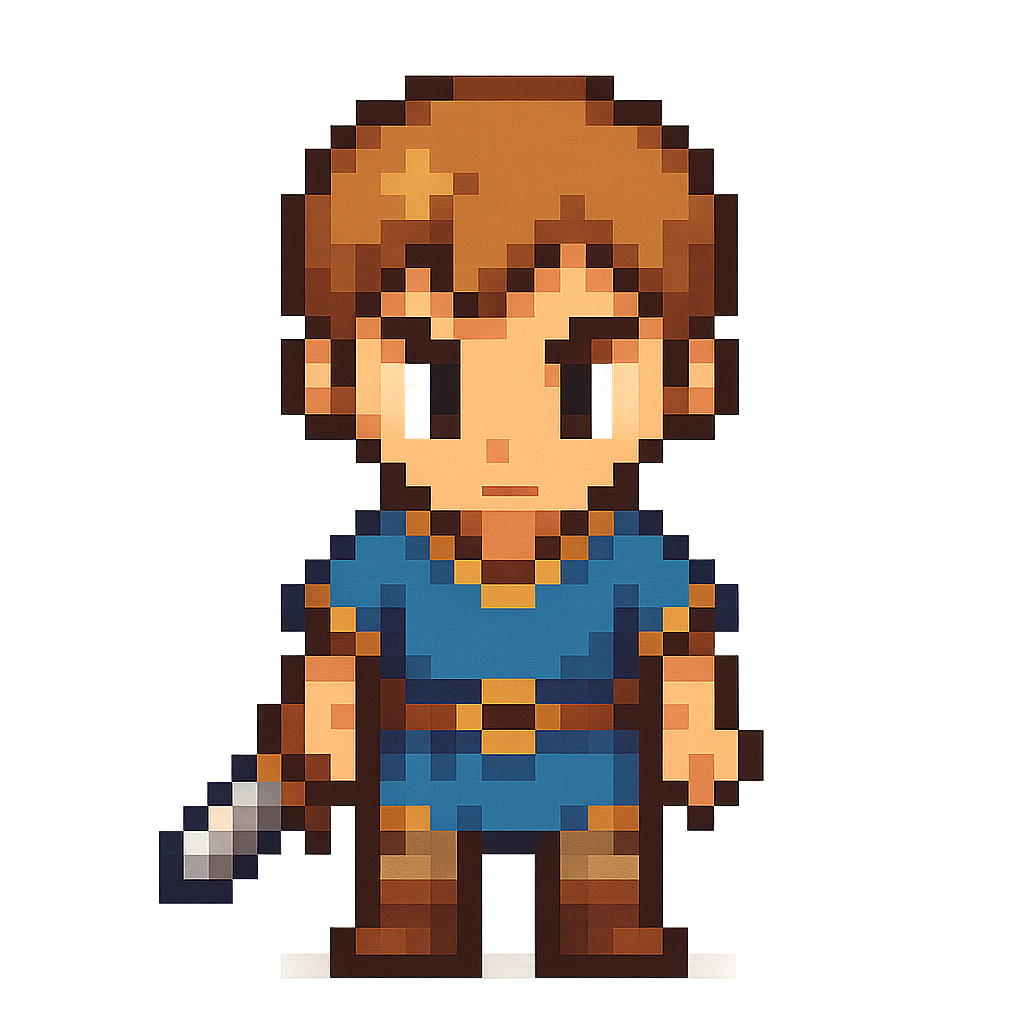
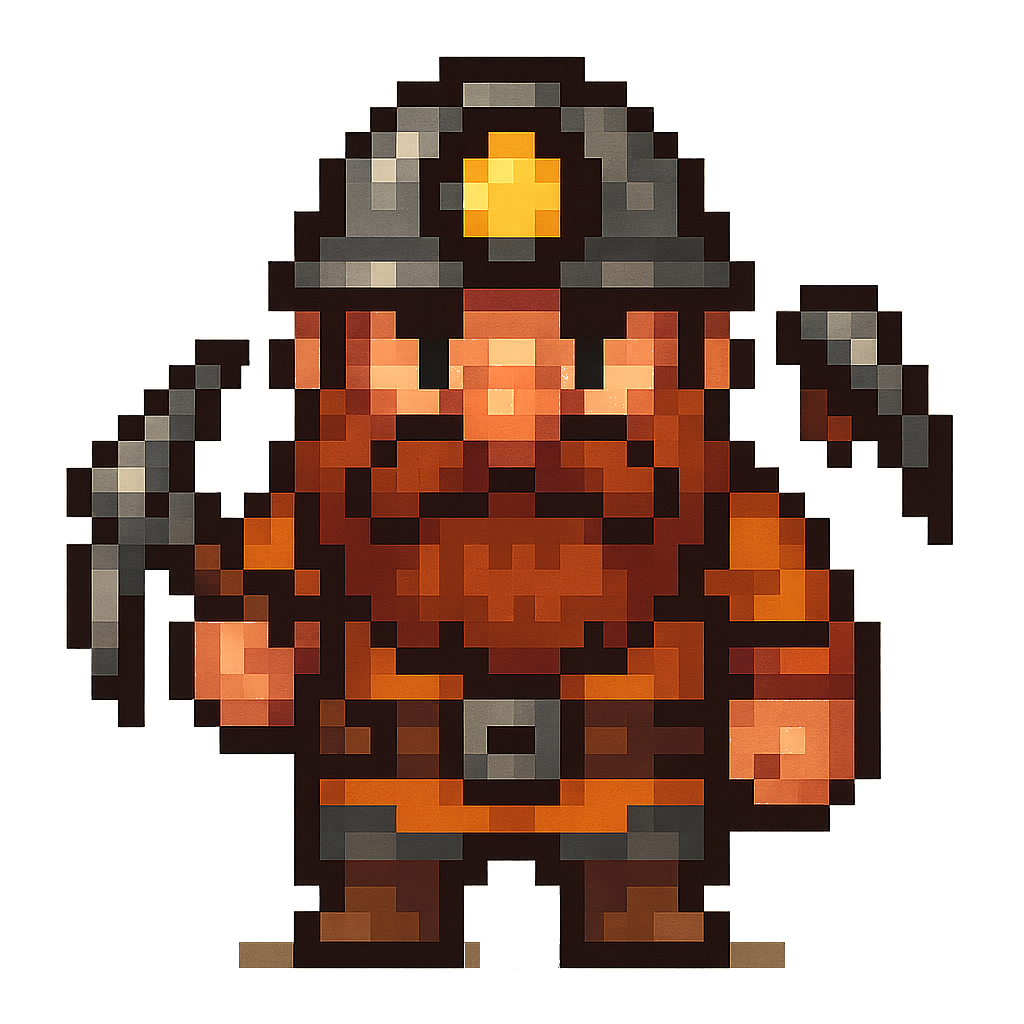
ドワーフ主人公画像＋坑道世界の仕様書更新

diff --git a/plan/game/worldbase.md b/plan/game/worldbase.md
@@ -1,48 +1,31 @@
-# ワールド／マップ方針（2026-10-03 テキスト方式に決定）
+# ワールド／マップ方針（2026-10-06 坑道版に全面切替え）
 
-## なぜテキストか
-- 前回 `origin/working` で詰まった原因はTiled操作自体でなく、tileset画像未用意＋パス不一致＋タイルセット名不一致の3点セット
-- テキストならAIが生成・修正しやすく、git差分が読め、seed生成と相性が良い
-- Tiledへの移行は将来可能。描画部分を抽象化しておく
+## なぜ坑道か
+- 地上DQ世界ではテリトリー境界が見えず、開始位置と城の関係も迷子の元だった
+- 坑道なら階層そのものが区切りになる。安全なキャンプ／上層／下層で迷わない
+- 主人公ドワーフ＋採取が主目的に昇格し、世界と遊びが一致する
+- 旧地上世界（30x30・城・村・魔王）は捨てた。git履歴（5d6cb080以前）に残る
 
-## タイル凡例（仮）
-- `#`: 山（通行不可）
-- `.`: 草原（歩行可・エンカウント低）
-- `T`: 森（歩行可・エンカウント中）
-- `~`: 水（通行不可、初期は装飾）
-- `+`: 橋（歩行可・エンカウント中。渡った先が強いゲート演出あり）
-- `:`: 砂浜（歩行可・エンカウント中）
-- `C`: 城（始まりの町、王様イベント）
-- `V`: 村・町（宿屋・会話）
-- `D`: 洞窟・ダンジョン入口
-- `S`: 開始位置（中央。四方へ広がる探索起点、隣に案内人）
+## タイル凡例
+- `#`: 岩壁（通行不可）
+- `.`: 床（キャンプは安全＝遭遇なし、坑道は遭遇あり）
+- `T`: 木（キャンプ装飾）
+- `C`: 親方小屋（Eキーで親方に会える）
+- `V`: 施設（長屋・道具屋・救護所・鍛冶場）
+- `D`: 坑口（親方の許可で入坑）
+- `S`: 開始位置（キャンプ中央）・坑道では出入口
+- `G`: 階段（上下層を行き来）
+- `O`: 銅鉱脈（通行不可、隣接Eキーで採取）
+- `K`: 鍵扉（納品の鍵でのみ通過）
+- `H`: 宝箱（上層の bonus、1回限り）
+- `B`: ボス床（坑底のぬし固定出現、逃走不可。撃破でのみクリア）
 
-## エリア分割（2026-10-05 DQ1式を適用）
-- 本家DQ1は8x8=64テリトリー（各15x15）＋テリトリー毎に5種の遭遇表。地形別遭遇率は砂地・山>森・橋・毒沼>草原
-- 本作30x30は3x3=9テリトリー（各10x10）に簡略化（src/data/regions.js）
-- 西=安全、北東（洞窟）=危険の勾配。橋を渡ると警告文＋強い敵テーブルに切り替わる
+## 進行順
+- キャンプ開始→親方に会う（依頼）→坑口→上層で銅掘り→銅3個納品→鍵→階段→下層→鍵扉→ボス
+- 戦闘後は元の位置に復帰する。鉱脈の枯渇は入坑（キャンプ→坑口）でリセットされる
+- セーブは救護所。坑道内からも再開できる
 
-## マップ生成ルール（AI生成時）
-- サイズは試作20x15から。外周は `#` で囲む
-- 必須配置：開始位置S、城C×1、洞窟D×1以上
-- 到達可能性をBFSで検証（S→C→Dが歩行可能タイルで繋がること）
-- 設定資料は旧 `data/world_base.json`（光の大陸・四神・魔王城・始まりの町・試練の洞窟）を流用する
-- 生成器は旧 `WorldGenerator.ts` のseed発想を簡略化して使う（座標決め＋敵・アイテム配置のみ）
-
-## 当面の運用
-- 手書きテキスト1枚＋AIバリエーションで試す
-- 描画はPhaser Graphicsの色タイル仮置き、tileset画像は後回し
-
-## 洞窟マップ凡例（試練の洞窟 15x15、dialogues.json内）
-- `#`: 壁（通行不可）
-- `.`: 床
-- `S`: 入口（フィールドに戻る）
-- `H`: 宝箱（1回限り：50G＋やくそう2＋ちいさなかぎ＋固定特性「かたい皮」。クリアにはならない）
-- `B`: ボス床（まおうのてさき固定出現、逃走不可。撃破でのみクリア）
-- `K`: 鍵扉（かぎ所持でのみ通過。宝箱→扉→ボスの順を強制）
-- NPC配置ルール：通行可能タイル（.）の上に置き、NPC自体は障害物扱い
-
-## 敵画像パイプライン（2026-10-04）
-- `public/assets/enemies/<id>.png`（id: slime, bat, goblin, ghost, golem, demon）に透過PNGを置くと戦闘画面で自動使用
+## 敵画像パイプライン（2026-10-04、継続）
+- `public/assets/enemies/<id>.png`（id: slime, bat, goblin, wolf, ghost, skeleton, golem, orc, mage, dragon, demon）に透過PNGを置くと戦闘画面で自動使用
+- `public/assets/hero.png`（主人公。2026-10-06 ドワーフ坑夫に再生）
 - ファイルがなければ手描きシェイプにフォールバック（素材なしでも動作）
-- 生成候補：fal.ai `image2pixel`（transparent_background指定でドット絵＋透過化）

diff --git a/plan/playsystem.md b/plan/playsystem.md
@@ -18,22 +18,26 @@
 - ボス：まおうのてさき（洞窟・宝箱取得後に出現、逃走不可）。撃破でプロトタイプクリア
 
 ## ゲーム進行
-- 世界地図での探索（テキストマップ方式、詳細は plan/game/worldbase.md）
-- 町や洞窟、ダンジョンの探索
-- 明確な目的（魔王を倒す）
-- 段階的に広がる冒険の規模
-- 最初の一歩：歩く→エンカウント→戦う→特性3択→王様フラグまでの一本ループ
+- 坑道キャンプ（安全地帯）と2層坑道の往復探索（テキストマップ方式、詳細は plan/game/worldbase.md）
+- キャンプ施設（長屋・道具屋・武器屋・救護所・鍛冶場）と坑道の探索
+- 明確な目的（坑底のぬしを倒す）
+- 段階的に広がる冒険の規模：上層→納品→下層→ボス
+- 基本ループ：掘る→売る→強くなる→納める→鍵→下層→ボス
 
 ## ストーリー要素
 - シンプルながら魅力的なストーリー展開
-- 勇者と魔王という明確な対立構造
-- NPCとの会話による情報収集（はなす→方向のNPCを調べるのみから開始）
-- 伝説や予言などファンタジー要素（data/world_base.json の設定を流用：光の大陸・四神・魔王城）
+- 新入り坑夫と坑底のぬしという明確な対立構造（2026-10-06 勇者vs魔王から変更）
+- NPCとの会話による情報収集（坑夫・職人たち）
+- 納品クエストによる進行（銅3個→下層の鍵）
 
 ## ゲームシステム
-- セーブ＆ロードシステム（教会のおいのりでlocalStorageに記録、起動時に再開可）
-- 宿屋での回復システム（一晩20Gで全回復）
-- 武器屋（街道：どうのつるぎ40G→かわのたて60G、南の村：てつのつるぎ120G）
+- セーブ＆ロードシステム（救護所のおいのりでlocalStorageに記録、坑道内からも再開可）
+- 長屋での回復システム（一晩20Gで全回復）
+- 武器屋（道具屋：どうのつるぎ40G→かわのたて60G、露店：てつのつるぎ120G）
+- アイテム・素材管理（やくそう：初期1個、銅鉱石：採取・売却・納品）
+- 特性システム（旧 呪文システムの置き換え）
+- ステータス画面（Tキー。特性の日本語名・効果量・銅所持を表示）
+- 全滅時は所持金半減・キャンプ復活（経験・特性は保持）
 - アイテム管理システム（やくそう：初期1個）
 - 特性システム（旧 呪文システムの置き換え）
 - ステータス画面（Tキー。特性の日本語名・効果量を表示）

diff --git a/plan/abstract.md b/plan/abstract.md
@@ -5,9 +5,8 @@
 - 作り込まれた感じ、テンポの良さ、なつかしさを重視する
 
 ## 昔のRPGとは
-- ドラクエ１，２，３のようなイメージ
-- まずは制作難易度的にドラクエ１を目指す
-- 必須3要素：1対1コマンドバトル／広いマップを歩く感じ／町・NPC会話（全部入りで作る）
+- ドラクエ１，２，３のようなイメージ（テンポ・ウィンドウ・1対1バトルを継承）
+- 2026-10-06 方向転換：主人公はドワーフ、世界は坑道中心。DQ1の城・村・魔王の枠は捨て、区切りの分かりやすさを優先する
 
 ## 技術方針（2026-10-03 決定）
 - Web (HTML/JS) + Phaser 3 継続（現 main ブランチ起点）
@@ -18,6 +17,11 @@
 - 特性プール案20個あり。試作では8個に絞る
 - 重ねがけ（スタック）ありを基本とし、上限あり特性は3択プールから除外する
 - レアリティ演出は初期はなし。後から検討
+
+## 世界方針（2026-10-06 全面切替え）
+- 主人公はドワーフ坑夫。拠点は坑道キャンプ（安全地帯）、冒険先は上層・下層の2層坑道
+- 進行は親方の依頼駆動：銅3個納品→下層の鍵→坑底のぬし討伐
+- 採取は主目的に昇格（納品・売却・将来の鍛冶）。詳細は plan/game/materials.md
 
 ## やらないこと（2026-10-03 確認）
 - Loop Hero型（自動周回＋カード配置）への転換はしない

diff --git a/plan/game/materials.md b/plan/game/materials.md
@@ -1,4 +1,4 @@
-# 素材採取・鍛冶システム設計（2026-10-06 検討済み・実装待ち）
+# 素材採取・鍛冶システム設計（2026-10-06 実装済み：採取・売却・納品。鍛冶は次回）
 
 ## 位置づけ
 - DQ1からの分岐点を意図的に作る。本作の差別化は「特性3択」＋「集める楽しみ」の二本柱とする
@@ -17,9 +17,9 @@
 - 将来：鉄鉱石、銀、魔石を上位洞窟・高危険テリトリー用に拡張
 - 所持は `player.mats = { copper: n }`。ステータス画面（Tキー）に表示、セーブ対象に含める
 
-## 用途（Step1：採取＋売却）
-- 新NPC「鍛冶屋」をStep1から街道の村 (14,7) に配置する（空きタイル確認済み。Step1は買取のみ、Step2でクラフト追加）
-- 買取価格は1個12G。売却UIは既存の宿屋・武器屋と同じZ/X選択式にする
+## 用途（Step1：採取＋売却＋納品＝実装済み）
+- 鍛冶屋NPCを街道の村…ではなく坑道キャンプ (15,12) に配置し、買取（1個12G）を実装済み
+- 親方への納品（銅3個→下層の鍵）が進行の要。採取が主目的に昇格した
 - 戦闘金策（スライム5G前後）とのバランスは後述の収支試算を参照
 
 ## 用途（Step2：鍛冶クラフト）
